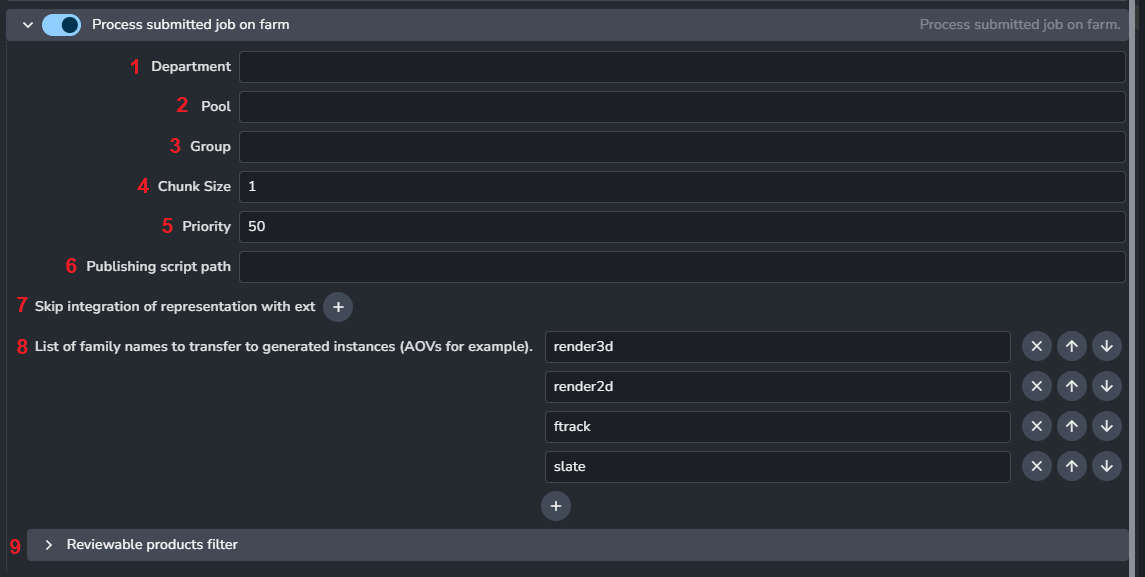
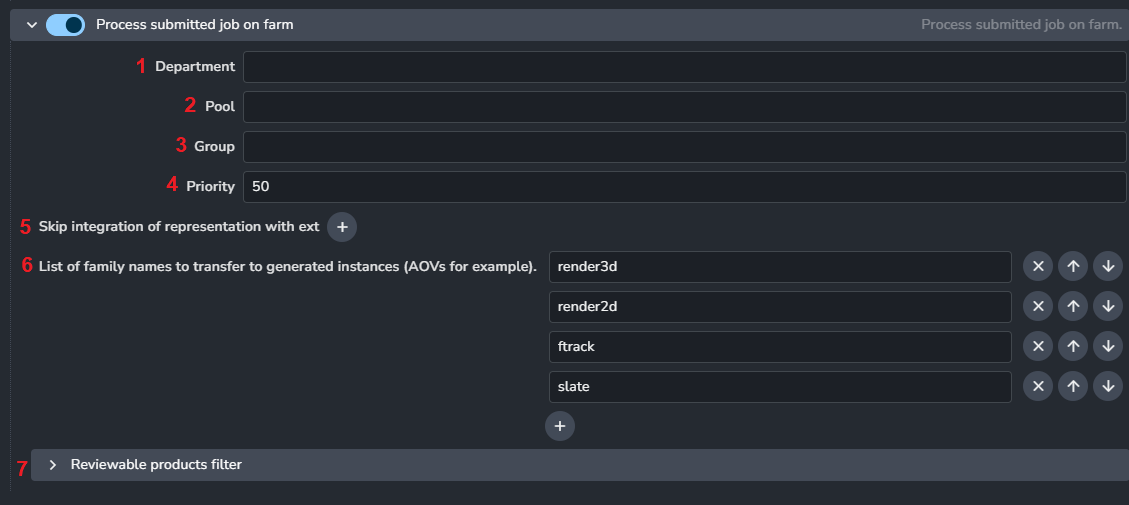
Update `Process submitted job on farm` section

Changed region(s): [[0.0, 0.0, 1.0, 1.0], [0.0, 0.4158, 0.341, 0.4752]]

diff --git a/website/docs/addon_deadline_admin.md b/website/docs/addon_deadline_admin.md
@@ -101,19 +101,17 @@ It submits a dependent AYON Job to publish the rendered images.
 
 ![](assets/deadline/process_submitted_job_on_farm.png)
 
-1. **Department:**
-2. **Pool:**
-3. **Group:**
-4. **Chunk Size:**
-5. **Priority:**
-6. **Publishing script path:**
-7. **Skip integration of representation with ext:**
-8. **List of family names to transfer to generated instances (AOVs for example):** Ensure the AOV instances have these families if present.
-9. **Reviewable products filter:**
+1. **Department**
+2. **Pool**
+3. **Group**
+4. **Priority**
+5. **Skip integration of representation with ext:** list of extensions that shouldn't be published.
+6. **List of family names to transfer to generated instances (AOVs for example):** Ensure the AOV instances have these families if present.
+7. **Reviewable products filter:** Add review for specific aov names.
 ![](assets/deadline/reviewable_products_filter.png)
    1. **AOV Filter**
-       1. **host_name:**
-       2. **AOV Regex:**
+       1. **host_name** Pipeline integration name supplied by an AYON addon.
+       2. **AOV Regex:** AOV regex patterns for AOV filters.
        3. **+ icon:** Add more regexes 
    2. **+ icon:** Add more filters
 
